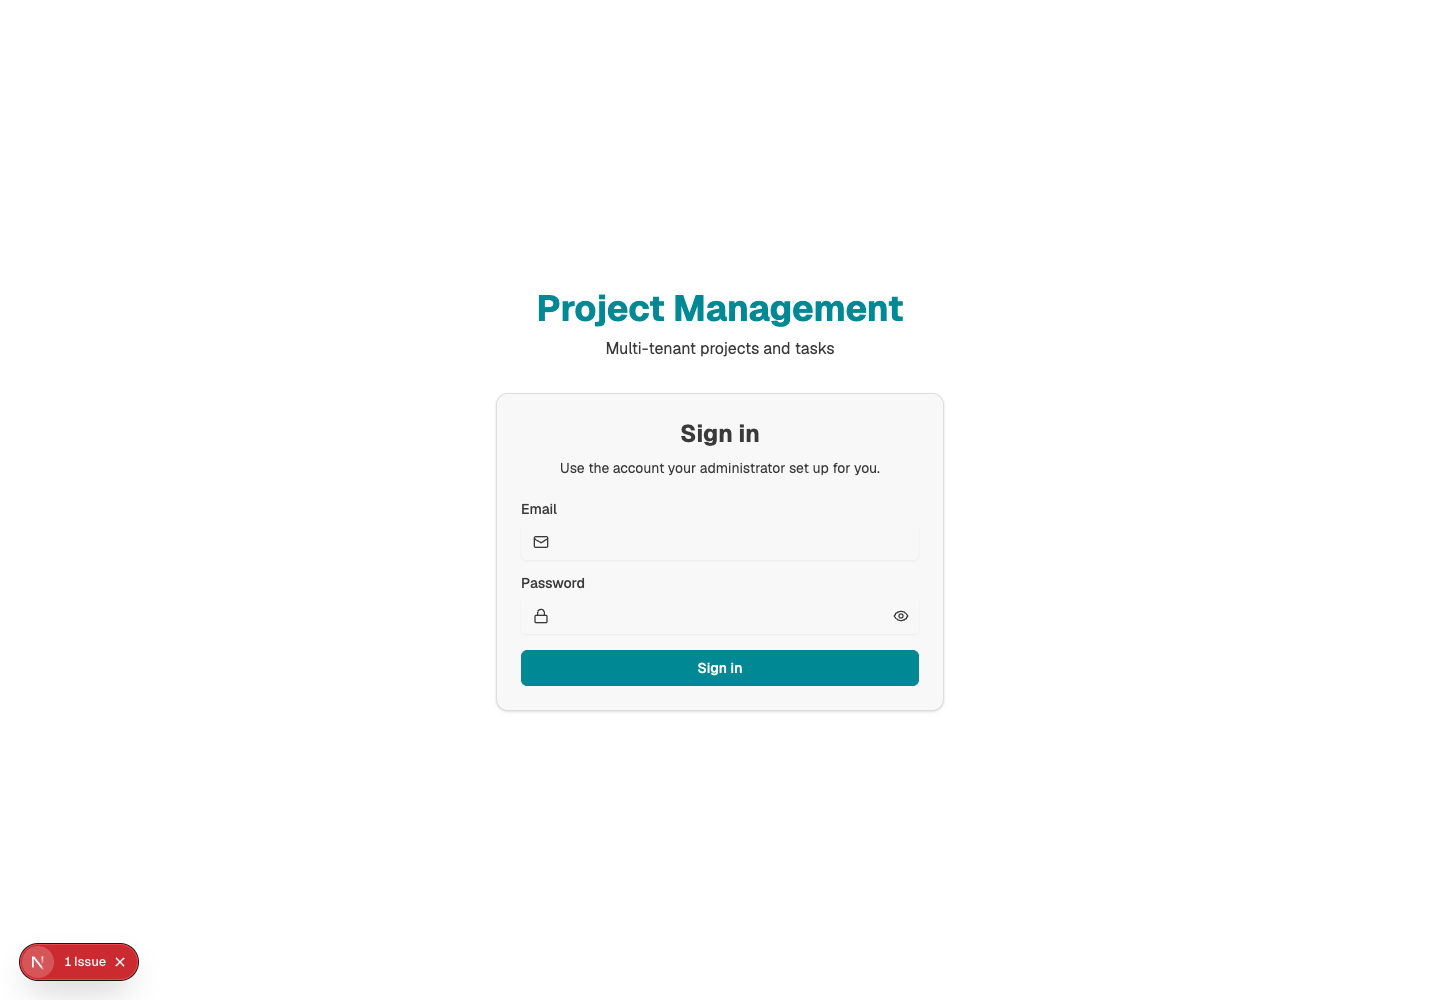
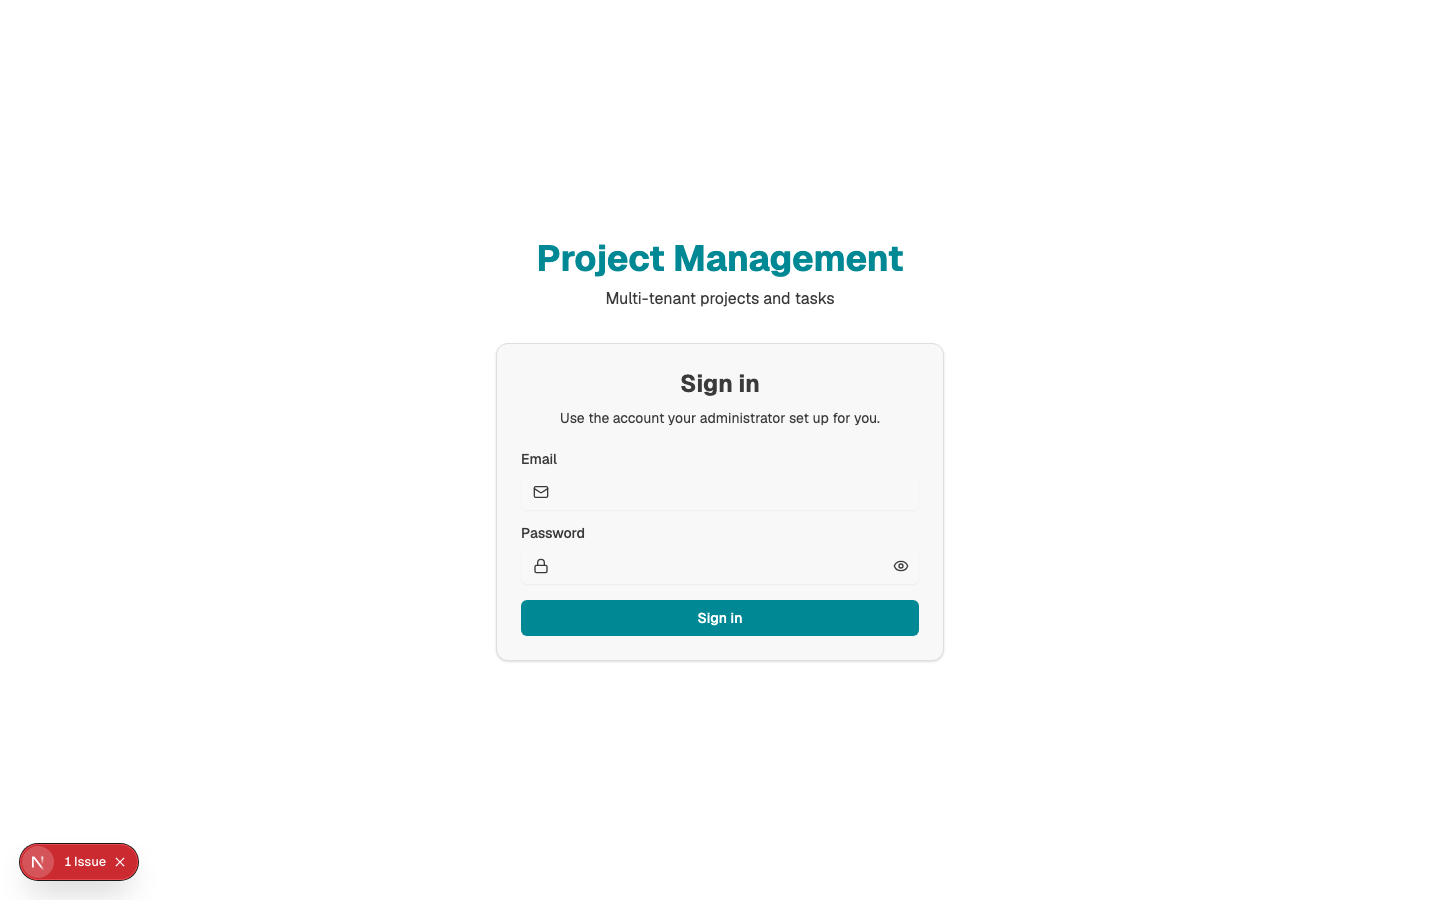
PMS: refresh demo screenshots with the enriched seed data
- Retake login, dashboard, projects, project-detail, tasks, users shots at 1440x900 on the new seed
- Add notifications panel shot
- Show the login flow and the 8 projects / 28 tasks the richer seed produces

diff --git a/index.html b/index.html
@@ -168,17 +168,21 @@ docker compose up --build
       <div class="num">2</div>
       <h2>Project Management System — Multi-tenant SaaS</h2>
       <div class="links">
+        <a class="btn live" href="https://pms-web-lilac.vercel.app" target="_blank">Live Demo</a>
         <a class="btn" href="https://github.com/Mahmod-mourad/Project-management-system" target="_blank">GitHub</a>
       </div>
     </div>
-    <p class="problem"><b>What it solves:</b> a task tracker for small teams, but built properly: every company that signs up gets its own tenant, and the isolation is enforced in the database with Postgres row-level security — not just in application code. There's a task board, per-project statistics, real-time updates over Socket.IO, and a test suite covering unit, integration and e2e.</p>
+    <p class="problem"><b>What it solves:</b> a task tracker for small teams, but built properly: every company on the platform gets its own tenant, and the isolation is enforced in the database with Postgres row-level security — not just in application code. There's a task board, per-project statistics, real-time updates over Socket.IO, and a test suite covering unit, integration and e2e.</p>
 
     <h3 class="section">Screenshots — logged in, real data</h3>
     <div class="shots">
       <figure class="shot"><img src="screenshots/pms/dashboard.png" alt="PMS dashboard"><figcaption>Dashboard — live stats and charts</figcaption></figure>
-      <figure class="shot"><img src="screenshots/pms/projects.png" alt="PMS projects"><figcaption>Projects — create, edit, search, filter</figcaption></figure>
-      <figure class="shot"><img src="screenshots/pms/tasks.png" alt="PMS tasks"><figcaption>Tasks — status, priority, due dates</figcaption></figure>
-      <figure class="shot"><img src="screenshots/pms/users.png" alt="PMS users"><figcaption>User management — admin only</figcaption></figure>
+      <figure class="shot"><img src="screenshots/pms/login.png" alt="PMS login"><figcaption>Sign in — email + password, bcrypt hashes</figcaption></figure>
+      <figure class="shot"><img src="screenshots/pms/projects.png" alt="PMS projects"><figcaption>Projects — 8 real projects across all states</figcaption></figure>
+      <figure class="shot"><img src="screenshots/pms/project-detail.png" alt="PMS project detail"><figcaption>Project detail — stats, members, tasks</figcaption></figure>
+      <figure class="shot"><img src="screenshots/pms/tasks.png" alt="PMS tasks"><figcaption>Tasks — 28 tasks with status, priority, due dates</figcaption></figure>
+      <figure class="shot"><img src="screenshots/pms/users.png" alt="PMS users"><figcaption>User management — admins, managers, members</figcaption></figure>
+      <figure class="shot"><img src="screenshots/pms/notifications.png" alt="PMS notifications"><figcaption>Notifications — assignment, project, overdue alerts</figcaption></figure>
     </div>
 
     <h3 class="section">Tech Stack</h3>

diff --git a/README.md b/README.md
@@ -28,9 +28,10 @@ docker compose up --build      # App: http://localhost:3000
 
 **What it solves:** a task tracker for small teams where tenant isolation is enforced at the database level with Postgres row-level security. Task board, per-project statistics, real-time updates over Socket.IO, and 151 unit/integration/e2e tests.
 
+- Live: https://pms-web-lilac.vercel.app
 - Code: https://github.com/Mahmod-mourad/Project-management-system
-- Stack: Next.js 14, NestJS, Supabase/PostgreSQL + RLS, Socket.IO, JWT + bcrypt, Swagger, Jest
-- Screenshots: `screenshots/pms/` (login, dashboard, projects, tasks, users)
+- Stack: Next.js 16, NestJS, Supabase/PostgreSQL + RLS, Socket.IO, JWT + bcrypt, Swagger, Jest
+- Screenshots: `screenshots/pms/` (login, dashboard, projects, project-detail, tasks, users, notifications)
 
 **How to Run:**
 ```bash
